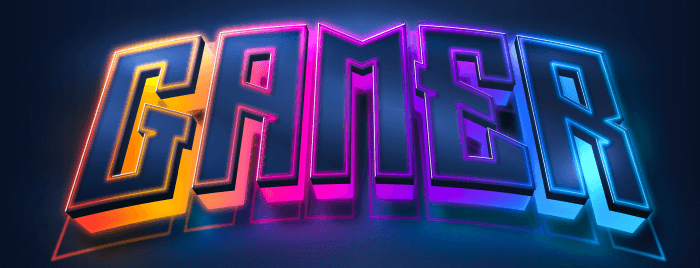
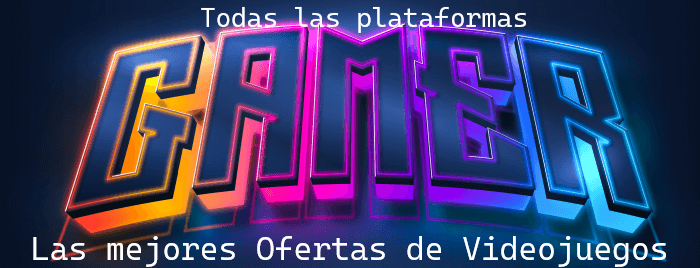
Modificada la imagen de portada

diff --git a/index.html b/index.html
@@ -9,8 +9,8 @@
 </head>
 <body>
     <header>
-        <h1>Las mejores ofertas de videojuegos</h1>
-        <p>Los principales videojuegos para todas las plataformas</p>
+        <!-- <h1>Las mejores ofertas de videojuegos</h1>
+        <p>Los principales videojuegos para todas las plataformas</p> -->
     </header>
     <section>
         <div class="menu">

diff --git a/style.css b/style.css
@@ -22,10 +22,10 @@ body {
 /* Cabecera */
 header {
     width: 100%;
-    height: 35vh;
+    height: 40vh;
     background-image: url('./img/gamer.png');
     background-repeat: no-repeat;
-    background-clip: content-box;
+    background-clip: border-box;
     background-size: cover;
     
 }
